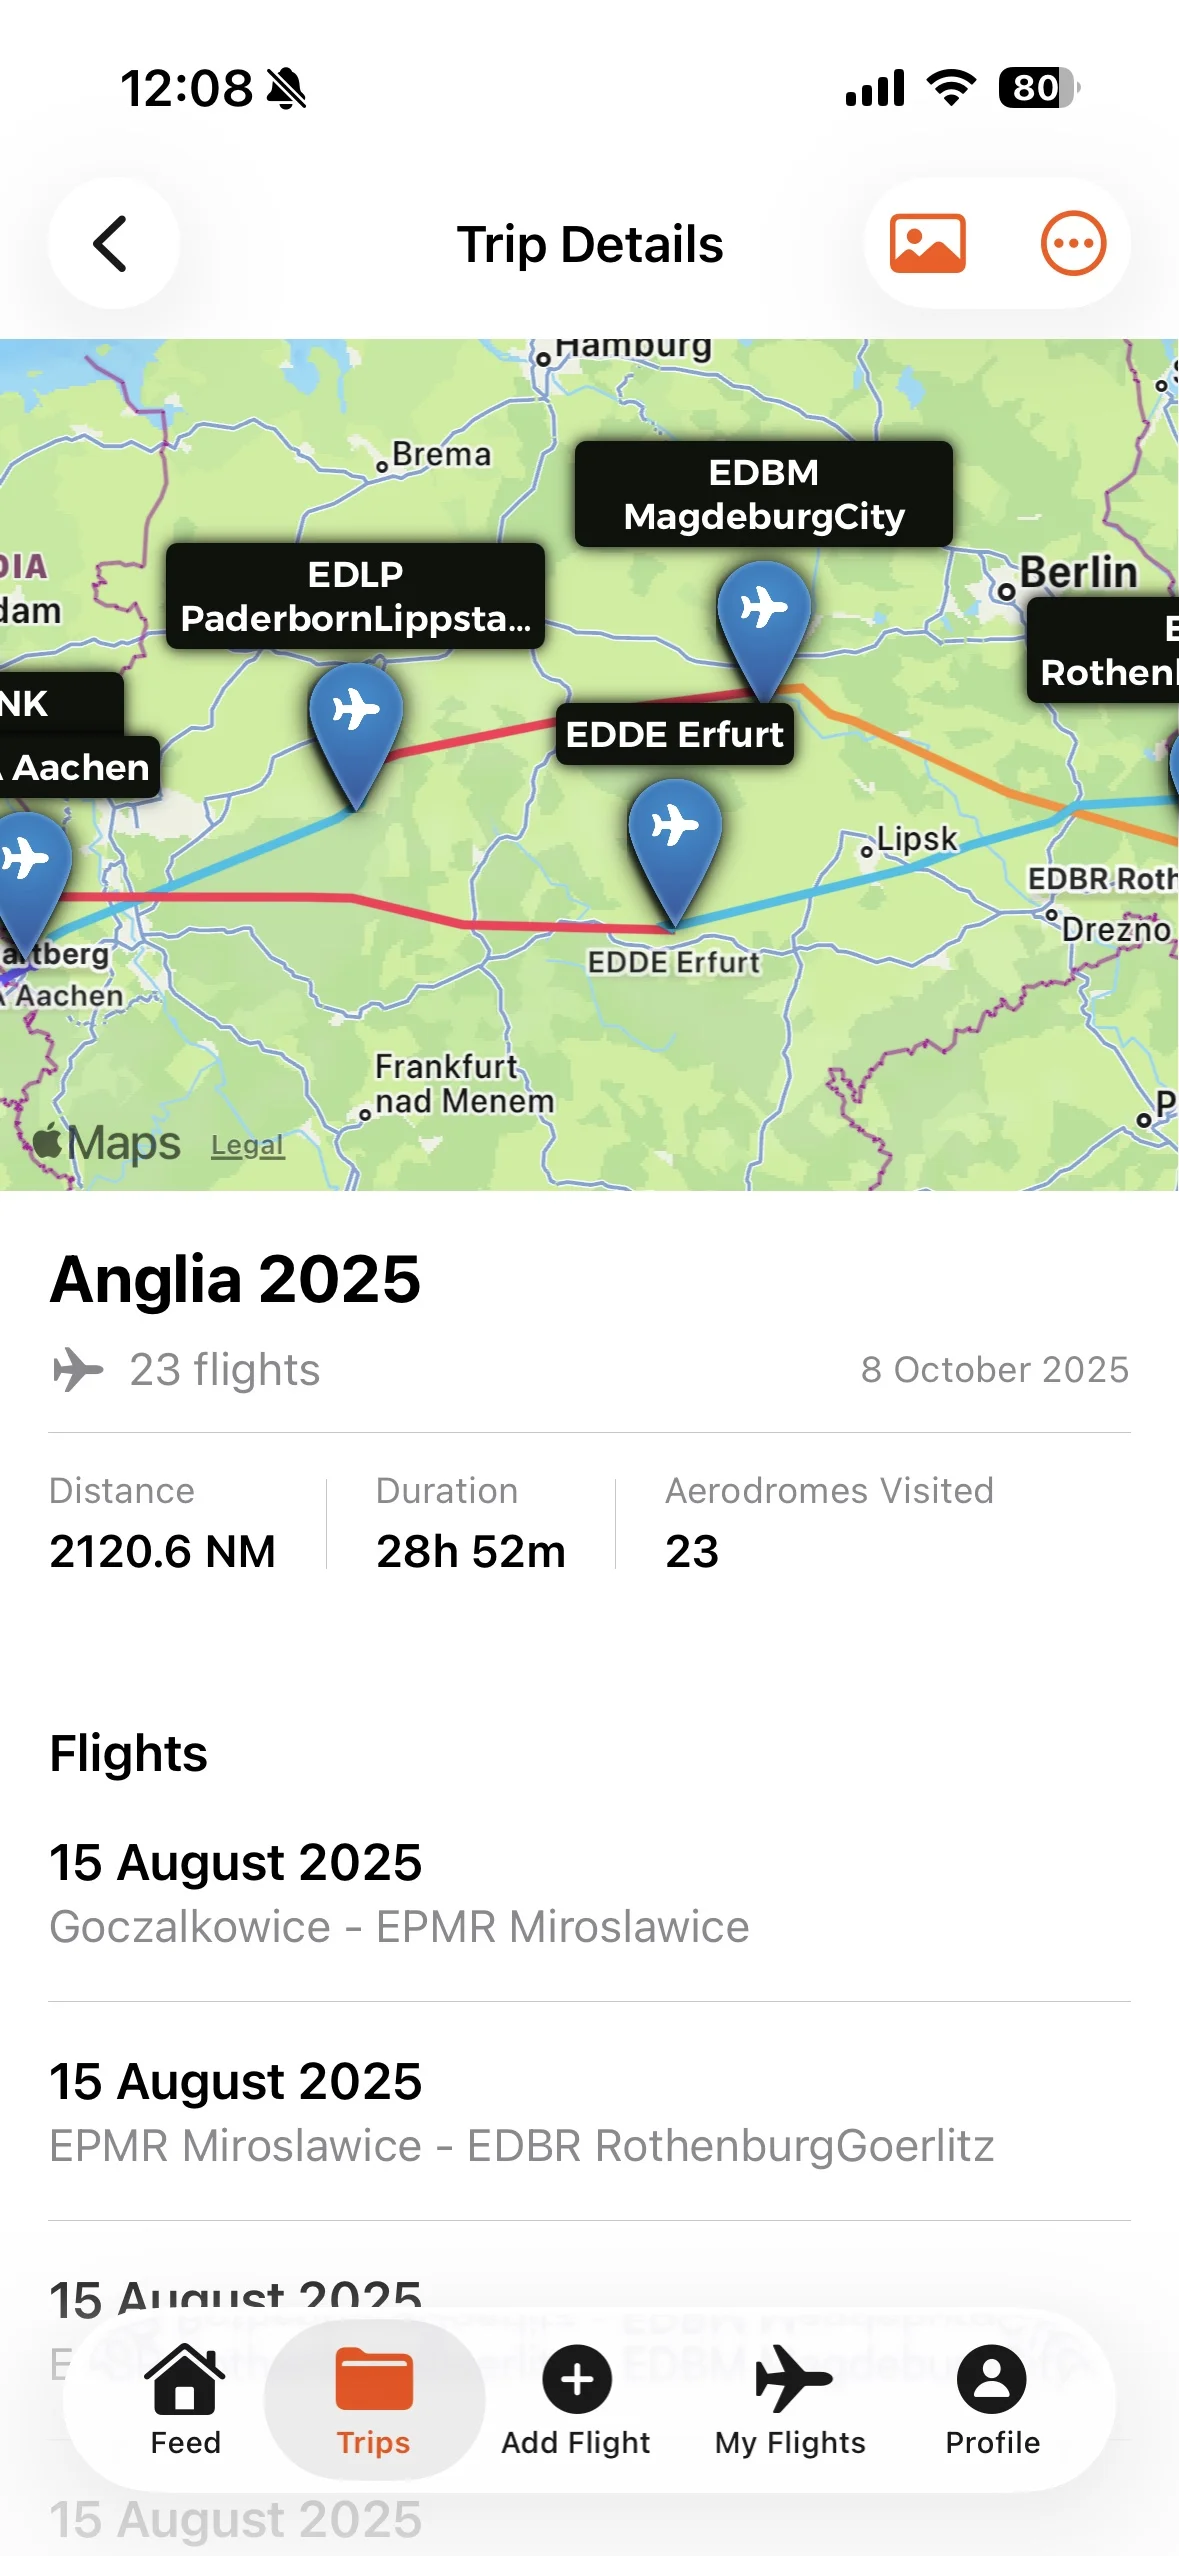
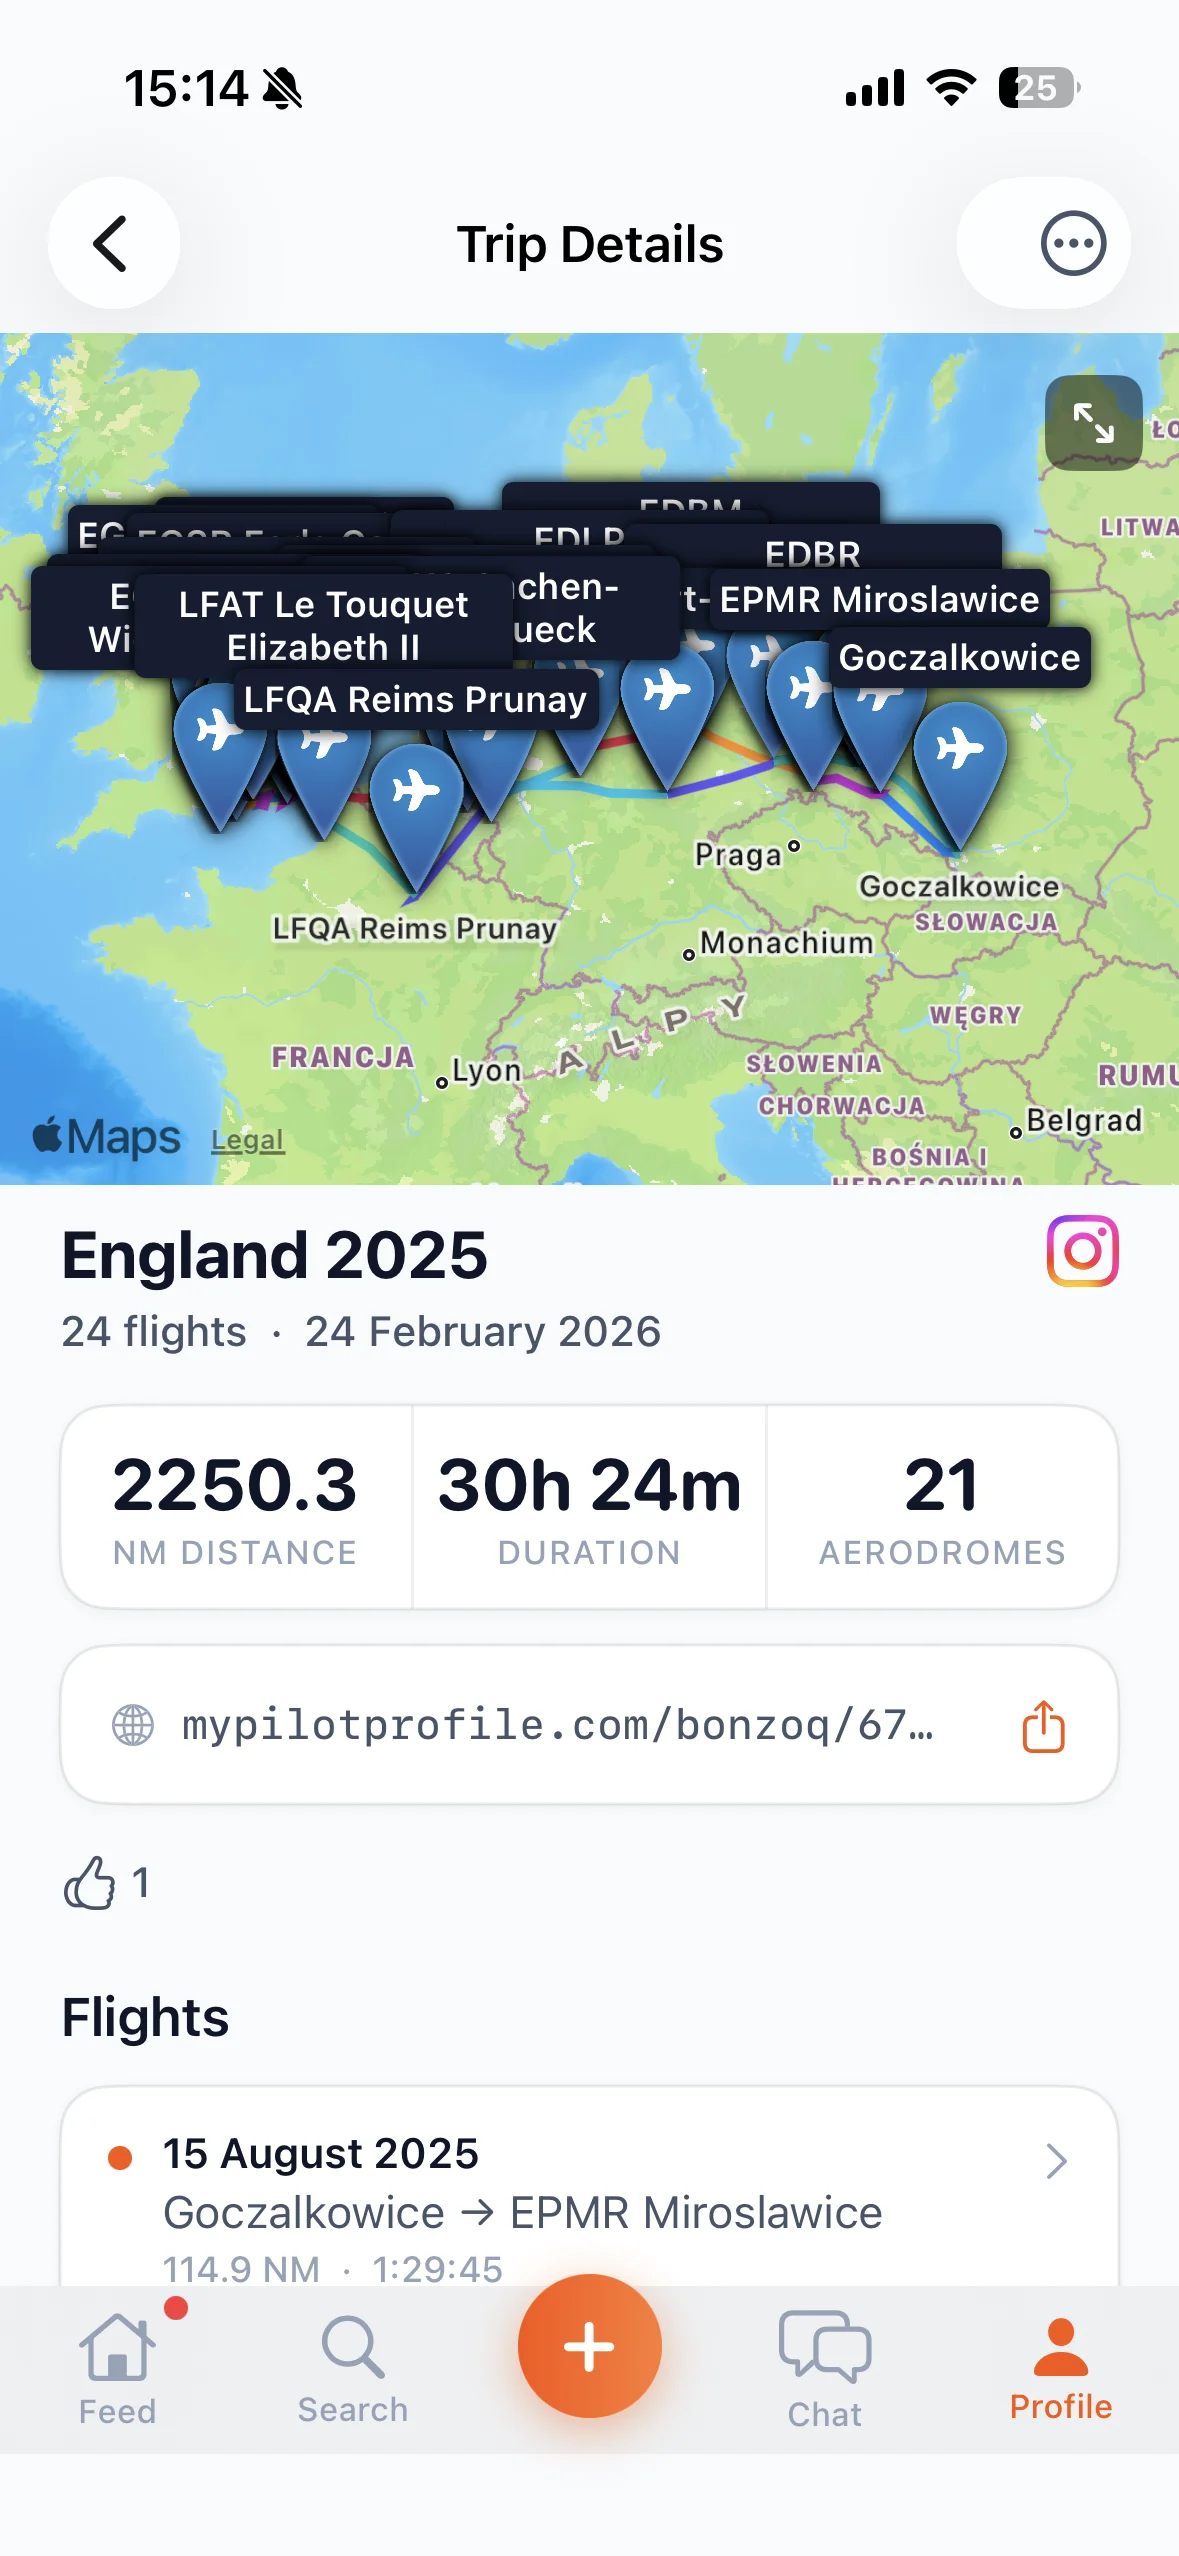
Replace screenshots with latest app captures
New screenshots showing real data: feed with Germany/England trips,
trip details for England 2025, share-as-image map editor, and profile
with actual stats. Updated profile mock stats in HTML to match
screenshot (71 flights, 125h, 7123 NM, 6 trips, 1 aircraft, 59
aerodromes).

diff --git a/index.html b/index.html
@@ -312,28 +312,28 @@
 
         <div class="profile__stats">
           <div class="profile__stat">
-            <div class="profile__stat-number">47</div>
+            <div class="profile__stat-number">71</div>
             <div class="profile__stat-label">Flights</div>
           </div>
           <div class="profile__stat">
-            <div class="profile__stat-number">12</div>
+            <div class="profile__stat-number">125h</div>
+            <div class="profile__stat-label">Hours</div>
+          </div>
+          <div class="profile__stat">
+            <div class="profile__stat-number">7,123</div>
+            <div class="profile__stat-label">NM Distance</div>
+          </div>
+          <div class="profile__stat">
+            <div class="profile__stat-number">6</div>
             <div class="profile__stat-label">Trips</div>
           </div>
           <div class="profile__stat">
-            <div class="profile__stat-number">142h</div>
-            <div class="profile__stat-label">Flight Time</div>
-          </div>
-          <div class="profile__stat">
-            <div class="profile__stat-number">8,400</div>
-            <div class="profile__stat-label">NM Flown</div>
-          </div>
-          <div class="profile__stat">
-            <div class="profile__stat-number">23</div>
-            <div class="profile__stat-label">Aerodromes</div>
-          </div>
-          <div class="profile__stat">
-            <div class="profile__stat-number">5</div>
+            <div class="profile__stat-number">1</div>
             <div class="profile__stat-label">Aircraft</div>
+          </div>
+          <div class="profile__stat">
+            <div class="profile__stat-number">59</div>
+            <div class="profile__stat-label">Aerodromes</div>
           </div>
         </div>
 
